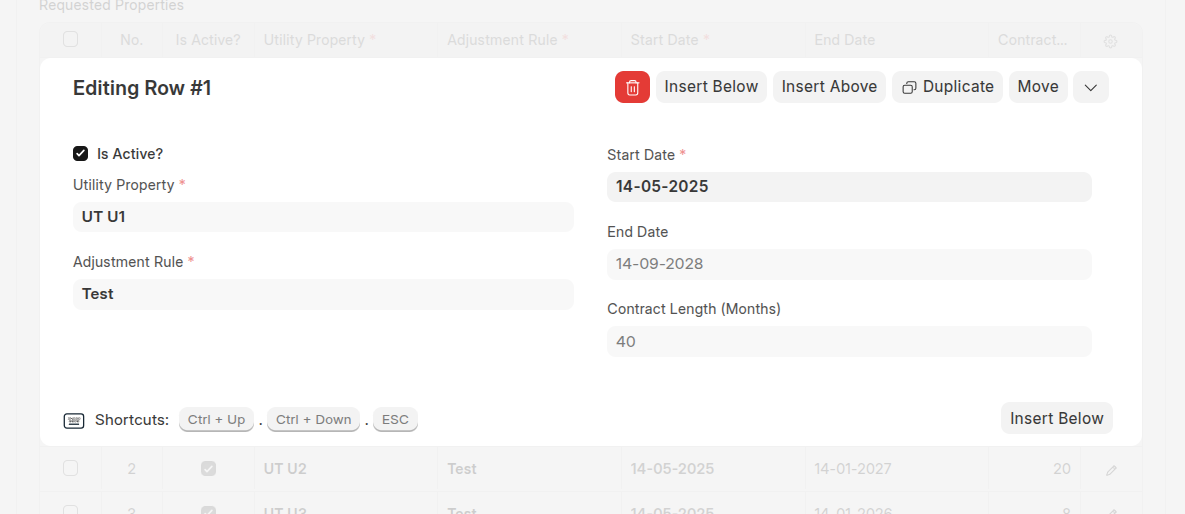
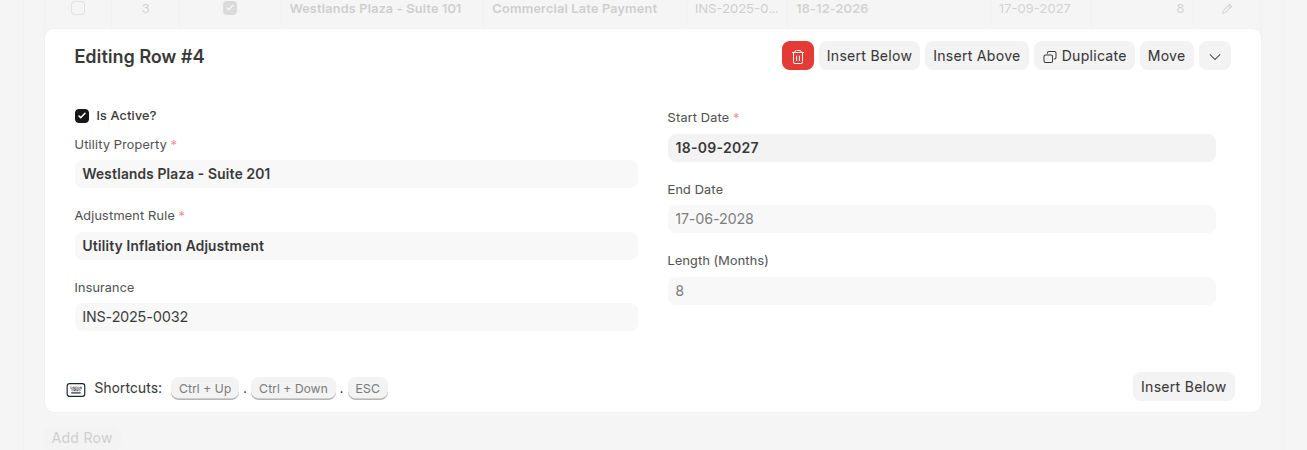
chore(demo-data, docs): improve documentation and add insurance to service request demo data
- Enhances documentation with improved structure, new images, and clearer descriptions
- Adds random insurance assignment to service requests in demo data generation
- Enables property-level insurance linkage for generated records
- Updates image paths and binary assets for consistency

diff --git a/utility_billing/utility_billing/patches/demo/service_request.py b/utility_billing/utility_billing/patches/demo/service_request.py
@@ -118,15 +118,29 @@ def assign_properties_to_request(doc, requested_props: List[Dict[str, Any]], ser
 
     total_days = (service_end - service_start).days
     days_per_prop = total_days // total_props
+    
+    def get_random_insurance():
+        """Fetch a random insurance policy if available."""
+        insurances = frappe.get_list(
+            "Insurance",
+            filters={},
+            fields=["name"],
+            limit=1,
+            order_by="RAND()"
+        )
+        return insurances[0].name if insurances else None
 
     for i, prop in enumerate(requested_props):
         prop_start = service_start + timedelta(days=i * days_per_prop)
         prop_end = prop_start + timedelta(days=days_per_prop - 1)
         if prop_end > service_end:
             prop_end = service_end
+            
+        insurance = get_random_insurance() 
 
         doc.append("requested_properties", {
             "utility_property": prop.get("utility_property"),
+            "insurance": insurance,
             "start_date": prop_start,
             "end_date": prop_end,
             "adjustment_rule": prop.get("adjustment_rule"),

diff --git a/utility_billing/docs/Service-Request.md b/utility_billing/docs/Service-Request.md
@@ -2,7 +2,7 @@
 
 The **Utility Service Request (USR)** Doctype is the core intake and workflow document for managing both property leasing and utility connections. It handles everything from customer onboarding to contract creation and utility billing setup.
 
-## ![Details Tab](https://raw.githubusercontent.com/navariltd/utility-billing/refs/heads/develop/utility_billing/docs/images/service_request_details_tab.png)
+## ![Details Tab](./images/service_request_details_tab.png)
 
 ---
 
@@ -78,7 +78,7 @@ The **Utility Bill Structure** provides a reusable billing configuration templat
 - **Pipe Distance / Type**: Record distance to water/sewer network.
 - **Water Network / Location**: Specify connection point.
 
-![Coordinates Tab](https://raw.githubusercontent.com/navariltd/utility-billing/refs/heads/develop/utility_billing/docs/images/service_request_coord_tab.png)
+![Coordinates Tab](./images/service_request_coord_tab.png)
 service_request_coord_tab.png
 
 ---
@@ -86,9 +86,9 @@ service_request_coord_tab.png
 ### 🏠 Requested Properties
 
 This section allows you to assign and manage multiple utility or rental properties within a single service request. Each property item supports advanced billing and automation features designed to streamline lease and invoice generation processes.
-![Lease Tab](https://raw.githubusercontent.com/navariltd/utility-billing/refs/heads/develop/utility_billing/docs/images/service_request_lease_tab.png)
+![Lease Tab](./images/service_request_lease_tab.png)
 
-![Property Item](https://raw.githubusercontent.com/navariltd/utility-billing/refs/heads/develop/utility_billing/docs/images/service_request_property.png)
+![Property Item](./images/service_request_property.png)
 
 - #### 🏘 **Utility Property**
 
@@ -105,6 +105,10 @@ This section allows you to assign and manage multiple utility or rental properti
 - #### 📐 **Contract Length (Months)**
 
   Automatically calculated or manually defined, this represents the total duration of the contract in months. Useful for internal reporting or rule application.
+
+- #### 🛡 **Insurance**
+
+  Links to an Insurance document that provides coverage details for the property during the rental period.
 
 - #### ⚙ **Adjustment Rule**
 
@@ -154,18 +158,19 @@ graph TD
 
 ### 4⃣ Generate Sales Order
 
+![Sales Order Modal](./images/service_request_salesorder_modal.png)
+
 - Deposit or booking amount auto-fetched from USR
 - Sales Order submitted for payment processing
+- Auto repeat can be optionally configured for recurring orders
 
-![Sales Invoice Modal](https://raw.githubusercontent.com/navariltd/utility-billing/refs/heads/develop/utility_billing/docs/images/service_request_salesinvoice_modal.png)
+### 5⃣ Sales Invoice & Payment
 
-### 5⃣ Sales Invoice & Auto Repeat
+![Sales Invoice Modal](./images/service_request_salesinvoice_modal.png)
 
 - Generates first invoice
-- Sets up automatic billing for rent or utility usage
+- Optional automatic billing setup for rent or utility usage
 - Escalation rules applied where needed
-
-![Sales Order Modal](https://raw.githubusercontent.com/navariltd/utility-billing/refs/heads/develop/utility_billing/docs/images/service_request_salesorder_modal.png)
 
 ## 🚀 Quick Navigation
 

diff --git a/utility_billing/docs/Property.md b/utility_billing/docs/Property.md
@@ -42,23 +42,33 @@ Enable the `is_fixed_asset` checkbox to treat the property as a fixed asset. Onc
 
 ## 📍 Location Details
 
+![Utility & Property Overview](./images/utility_property-location.png)
+
 - `location`: Geographical location or estate (linked DocType)
-- `plot_no`, `house_no`, `lot_size`: Land-related details
+- `territory`: Business territory for the property
+- `house_no`: House or building identifier
+- `plot_no`: Plot or parcel number
+- `lot_size`: Land area measurements
 
 ---
 
 ## 🏢 Unit Information
 
+![Utility & Property Overview](./images/utility_property-unit.png)
 Track information about the internal structure or units:
 
-- `unit_number`: Unique number for the unit
-- `unit_type`: Type (e.g., Studio, 2BHK, Office)
-- `bedrooms`, `bathrooms`
-- `floor_level`, `unit_size`
+- `unit_number`: Unique identifier for the specific unit
+- `unit_type`: Classification of the unit (Studio, 1BHK, 2BHK, Office, etc.)
+- `bedrooms`: Number of bedrooms in the property
+- `bathrooms`: Number of bathrooms available
+- `floor_level`: Which floor the unit is located on
+- `unit_size`: Size of the unit measured in square feet
 
 ---
 
 ## ✨ Features and Amenities
+
+![Utility & Property Overview](./images/utility_property-features.png)
 
 - `features`: A child table of `Utility Property Feature Item`
 - Allows listing multiple features like swimming pool, balcony, parking, etc.

diff --git a/utility_billing/docs/Settings.md b/utility_billing/docs/Settings.md
@@ -29,6 +29,15 @@ The **Utility Billing Settings** Doctype centralizes critical configuration opti
 
 ---
 
+### 🧪 Demo Data
+
+| **Field**              | **Description**                                              |
+| ---------------------- | ------------------------------------------------------------ |
+| **Generate Demo Data** | Creates sample utility billing records for testing purposes. |
+| **Clear Demo Data**    | Removes all previously generated demo data from the system.  |
+
+---
+
 ## 🚀 Quick Navigation
 
 [![Home](https://img.shields.io/badge/Home-DEF4FF?style=for-the-badge&logo=github&logoColor=000)](https://github.com/navariltd/utility-billing)
